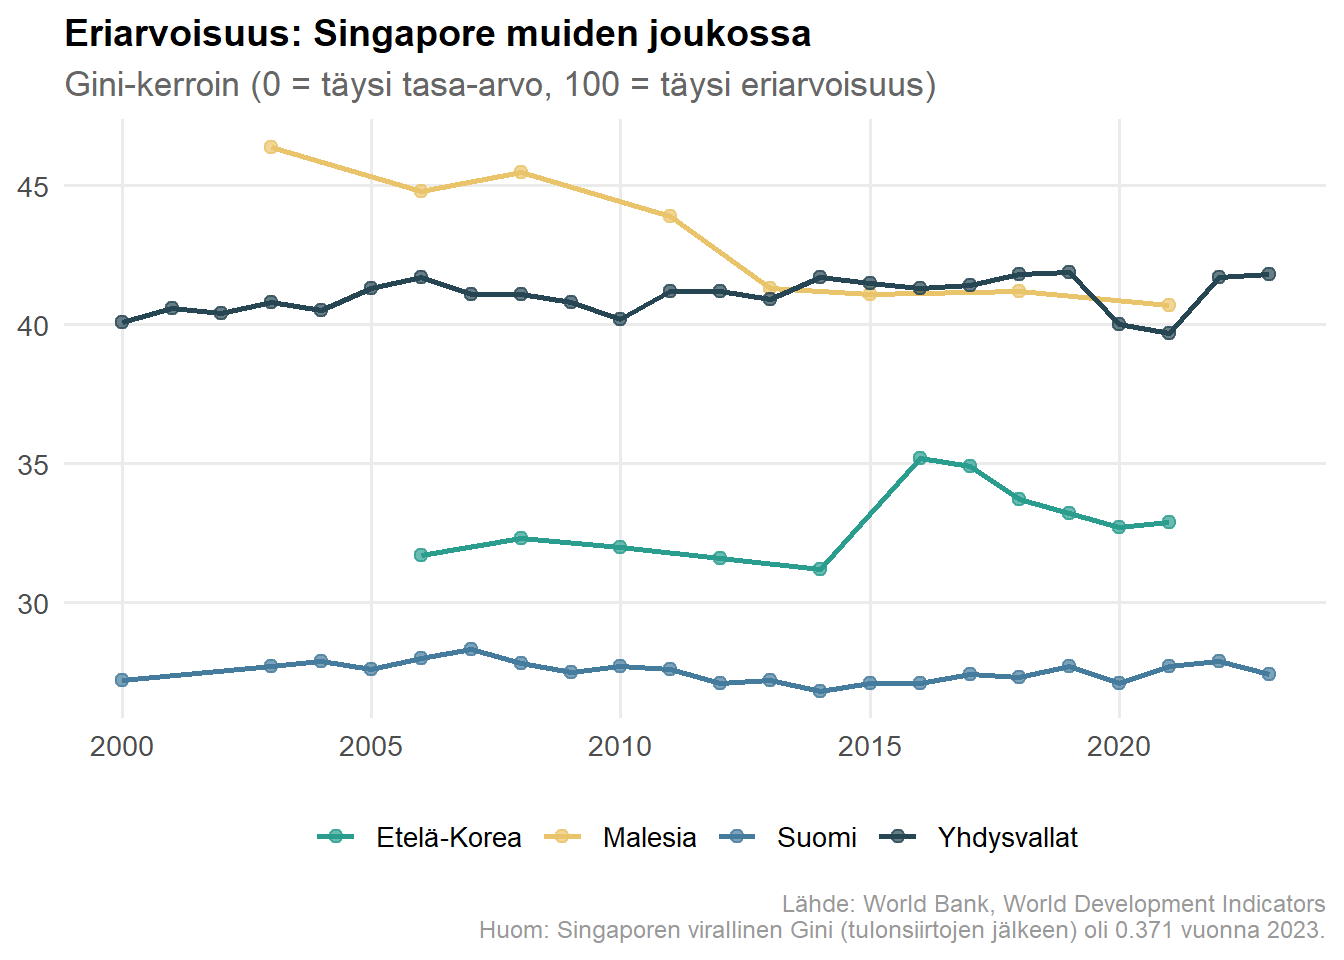
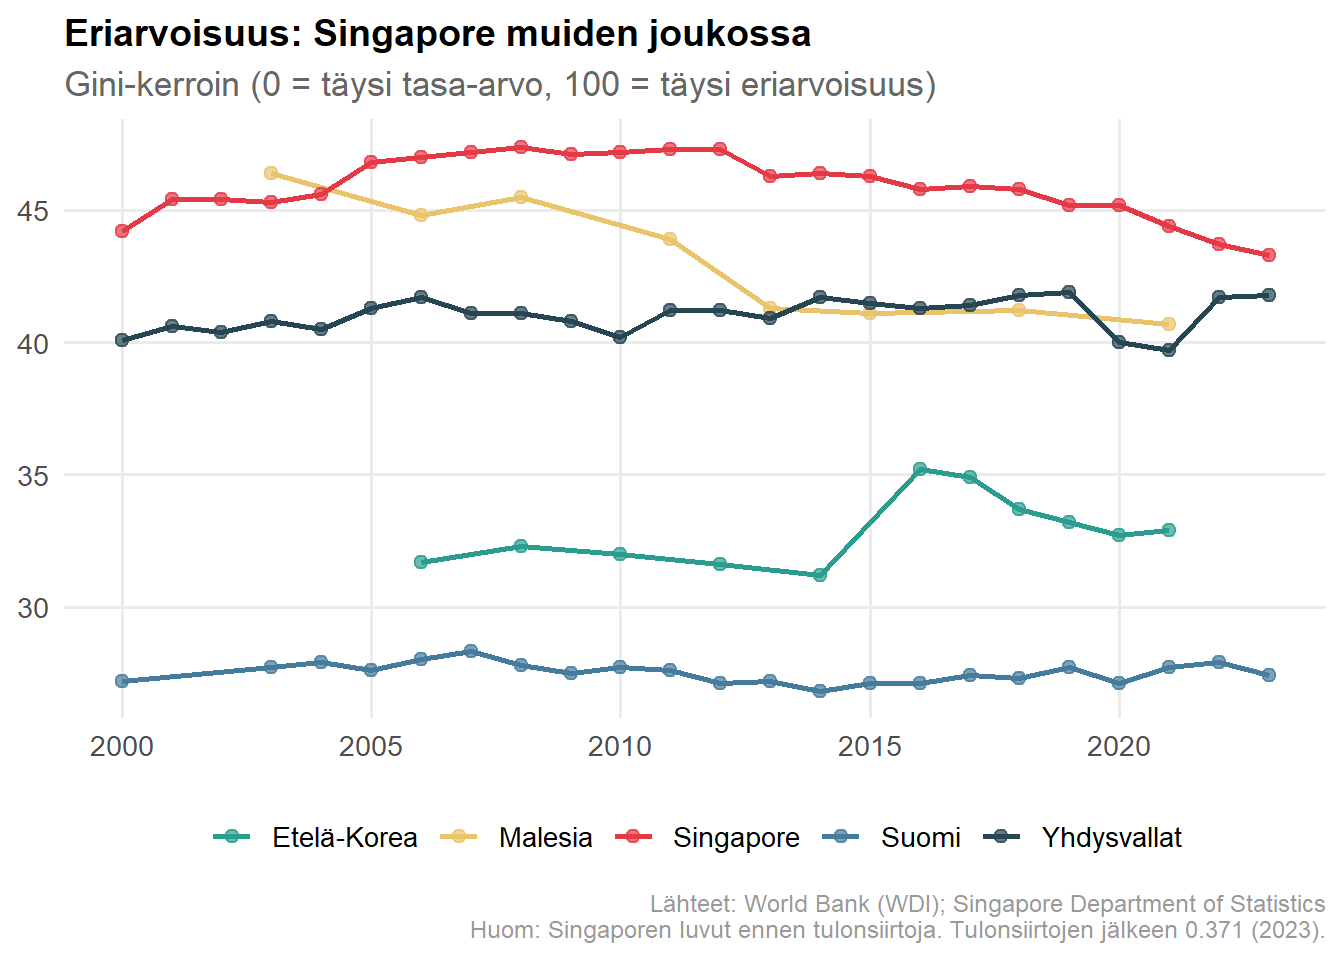
Built site for gh-pages

diff --git a/posts/singapore/index.html b/posts/singapore/index.html
@@ -169,7 +169,7 @@ pre > code.sourceCode > span > a:first-child::before { text-decoration: underlin
       <div>
       <div class="quarto-title-meta-heading">Julkaistu</div>
       <div class="quarto-title-meta-contents">
-        <p class="date">21. helmikuuta 2025</p>
+        <p class="date">21. helmikuuta 2026</p>
       </div>
     </div>
     
@@ -375,46 +375,55 @@ Kuva&nbsp;2: Bruttosäästämisaste (% BKT:stä) Singaporessa ja vertailumaissa.
 <h2 class="anchored" data-anchor-id="maahanmuutto-ja-kaksoistyömarkkinat">Maahanmuutto ja kaksoistyömarkkinat</h2>
 <p>Singapore käyttää aktiivista työperäistä maahanmuuttoa talouden joustavuuden välineenä. Järjestelmä on kaksijakoinen: korkean osaamisen virrat tuovat finanssi-, teknologia- ja tutkimusalan ammattilaisia, kun taas matalapalkkaiset vierastyöläiset tekevät rakennus-, siivous- ja hoivatyötä.</p>
 <p>Makrotaloudellisesti tämä pitää palkkainflaation kurissa, nostaa potentiaalista BKT:tä ja lisää talouden joustavuutta suhdannevaihteluissa. Mutta se myös luo kaksoistyömarkkinan, jossa oikeudet ja palkkatasot eroavat dramaattisesti kansalaisuuden perusteella.</p>
-<p>Katukuvassa tämä näkyy välittömästi. Bangladeshilaiset ja intialaiset rakennustyöläiset asuvat teollisuusalueiden asuntoloissa — tarkoitukseen rakennetuissa betonitorneissa, varastoista muunnetuissa majoitustiloissa tai työmaiden väliaikaisparakeissa — ja kulkevat työmaalle kuorma-autojen lavoilla. Muutaman kilometrin päässä CBD:n pilvenpiirtäjissä työskentelevät toisenlaiset “vierastyöläiset” — lontoolaiset pankkiirit ja sanfranciscolaiset ohjelmistokehittäjät — joiden Employment Pass avaa tien pysyvään oleskelulupaan ja lopulta kansalaisuuteen. Molemmat ovat siirtotyöläisiä. Heidän Singaporensa eivät ole sama maa. Eriarvoisuus ei ole järjestelmän virhe, vaan se on ominaisuus.</p>
+<p>Katukuvassa tämä näkyy välittömästi. Bangladeshilaiset ja intialaiset rakennustyöläiset asuvat teollisuusalueiden asuntoloissa — tarkoitukseen rakennetuissa betonitorneissa, varastoista muunnetuissa majoitustiloissa tai työmaiden väliaikaisparakeissa — ja kulkevat työmaalle kuorma-autojen lavoilla. Muutaman kilometrin päässä CBD:n pilvenpiirtäjissä työskentelevät toisenlaiset “vierastyöläiset” — lontoolaiset pankkiirit ja sanfranciscolaiset ohjelmistokehittäjät — joiden Employment Pass avaa tien pysyvään oleskelulupaan ja lopulta kansalaisuuteen. Molemmat ovat siirtotyöläisiä. Heidän Singaporensa eivät ole sama maa. Eriarvoisuus ei ole järjestelmän virhe, vaan sen ominaisuus.</p>
 </section>
 <section id="eriarvoisuus-kasvua-ensin-uudelleenjakoa-ehkä-myöhemmin" class="level2">
 <h2 class="anchored" data-anchor-id="eriarvoisuus-kasvua-ensin-uudelleenjakoa-ehkä-myöhemmin">Eriarvoisuus: kasvua ensin, uudelleenjakoa ehkä myöhemmin</h2>
 <div class="cell">
 <details class="code-fold">
 <summary>Näytä koodi</summary>
-<div class="code-copy-outer-scaffold"><div class="sourceCode cell-code" id="cb3"><pre class="sourceCode r code-with-copy"><code class="sourceCode r"><span id="cb3-1"><a href="#cb3-1" aria-hidden="true" tabindex="-1"></a>gini_data <span class="ot">&lt;-</span> <span class="fu">WDI</span>(</span>
-<span id="cb3-2"><a href="#cb3-2" aria-hidden="true" tabindex="-1"></a>  <span class="at">country =</span> <span class="fu">c</span>(<span class="st">"SG"</span>, <span class="st">"FI"</span>, <span class="st">"KR"</span>, <span class="st">"US"</span>, <span class="st">"MY"</span>),</span>
-<span id="cb3-3"><a href="#cb3-3" aria-hidden="true" tabindex="-1"></a>  <span class="at">indicator =</span> <span class="st">"SI.POV.GINI"</span>,</span>
-<span id="cb3-4"><a href="#cb3-4" aria-hidden="true" tabindex="-1"></a>  <span class="at">start =</span> <span class="dv">2000</span>,</span>
-<span id="cb3-5"><a href="#cb3-5" aria-hidden="true" tabindex="-1"></a>  <span class="at">end =</span> <span class="dv">2023</span></span>
-<span id="cb3-6"><a href="#cb3-6" aria-hidden="true" tabindex="-1"></a>) <span class="sc">|&gt;</span></span>
-<span id="cb3-7"><a href="#cb3-7" aria-hidden="true" tabindex="-1"></a>  <span class="fu">rename</span>(<span class="at">gini =</span> SI.POV.GINI) <span class="sc">|&gt;</span></span>
-<span id="cb3-8"><a href="#cb3-8" aria-hidden="true" tabindex="-1"></a>  <span class="fu">filter</span>(<span class="sc">!</span><span class="fu">is.na</span>(gini)) <span class="sc">|&gt;</span></span>
-<span id="cb3-9"><a href="#cb3-9" aria-hidden="true" tabindex="-1"></a>  <span class="fu">mutate</span>(<span class="at">country_fi =</span> <span class="fu">case_when</span>(</span>
-<span id="cb3-10"><a href="#cb3-10" aria-hidden="true" tabindex="-1"></a>    iso2c <span class="sc">==</span> <span class="st">"SG"</span> <span class="sc">~</span> <span class="st">"Singapore"</span>,</span>
-<span id="cb3-11"><a href="#cb3-11" aria-hidden="true" tabindex="-1"></a>    iso2c <span class="sc">==</span> <span class="st">"FI"</span> <span class="sc">~</span> <span class="st">"Suomi"</span>,</span>
-<span id="cb3-12"><a href="#cb3-12" aria-hidden="true" tabindex="-1"></a>    iso2c <span class="sc">==</span> <span class="st">"KR"</span> <span class="sc">~</span> <span class="st">"Etelä-Korea"</span>,</span>
-<span id="cb3-13"><a href="#cb3-13" aria-hidden="true" tabindex="-1"></a>    iso2c <span class="sc">==</span> <span class="st">"US"</span> <span class="sc">~</span> <span class="st">"Yhdysvallat"</span>,</span>
-<span id="cb3-14"><a href="#cb3-14" aria-hidden="true" tabindex="-1"></a>    iso2c <span class="sc">==</span> <span class="st">"MY"</span> <span class="sc">~</span> <span class="st">"Malesia"</span></span>
-<span id="cb3-15"><a href="#cb3-15" aria-hidden="true" tabindex="-1"></a>  ))</span>
-<span id="cb3-16"><a href="#cb3-16" aria-hidden="true" tabindex="-1"></a></span>
-<span id="cb3-17"><a href="#cb3-17" aria-hidden="true" tabindex="-1"></a><span class="fu">ggplot</span>(gini_data, <span class="fu">aes</span>(<span class="at">x =</span> year, <span class="at">y =</span> gini, <span class="at">color =</span> country_fi)) <span class="sc">+</span></span>
-<span id="cb3-18"><a href="#cb3-18" aria-hidden="true" tabindex="-1"></a>  <span class="fu">geom_line</span>(<span class="at">linewidth =</span> <span class="dv">1</span>) <span class="sc">+</span></span>
-<span id="cb3-19"><a href="#cb3-19" aria-hidden="true" tabindex="-1"></a>  <span class="fu">geom_point</span>(<span class="at">size =</span> <span class="dv">2</span>, <span class="at">alpha =</span> <span class="fl">0.7</span>) <span class="sc">+</span></span>
-<span id="cb3-20"><a href="#cb3-20" aria-hidden="true" tabindex="-1"></a>  <span class="fu">scale_color_manual</span>(<span class="at">values =</span> <span class="fu">c</span>(</span>
-<span id="cb3-21"><a href="#cb3-21" aria-hidden="true" tabindex="-1"></a>    <span class="st">"Singapore"</span> <span class="ot">=</span> <span class="st">"#e63946"</span>,</span>
-<span id="cb3-22"><a href="#cb3-22" aria-hidden="true" tabindex="-1"></a>    <span class="st">"Suomi"</span> <span class="ot">=</span> <span class="st">"#457b9d"</span>,</span>
-<span id="cb3-23"><a href="#cb3-23" aria-hidden="true" tabindex="-1"></a>    <span class="st">"Etelä-Korea"</span> <span class="ot">=</span> <span class="st">"#2a9d8f"</span>,</span>
-<span id="cb3-24"><a href="#cb3-24" aria-hidden="true" tabindex="-1"></a>    <span class="st">"Yhdysvallat"</span> <span class="ot">=</span> <span class="st">"#264653"</span>,</span>
-<span id="cb3-25"><a href="#cb3-25" aria-hidden="true" tabindex="-1"></a>    <span class="st">"Malesia"</span> <span class="ot">=</span> <span class="st">"#e9c46a"</span></span>
-<span id="cb3-26"><a href="#cb3-26" aria-hidden="true" tabindex="-1"></a>  )) <span class="sc">+</span></span>
-<span id="cb3-27"><a href="#cb3-27" aria-hidden="true" tabindex="-1"></a>  <span class="fu">labs</span>(</span>
-<span id="cb3-28"><a href="#cb3-28" aria-hidden="true" tabindex="-1"></a>    <span class="at">title =</span> <span class="st">"Eriarvoisuus: Singapore muiden joukossa"</span>,</span>
-<span id="cb3-29"><a href="#cb3-29" aria-hidden="true" tabindex="-1"></a>    <span class="at">subtitle =</span> <span class="st">"Gini-kerroin (0 = täysi tasa-arvo, 100 = täysi eriarvoisuus)"</span>,</span>
-<span id="cb3-30"><a href="#cb3-30" aria-hidden="true" tabindex="-1"></a>    <span class="at">x =</span> <span class="cn">NULL</span>, <span class="at">y =</span> <span class="cn">NULL</span>, <span class="at">color =</span> <span class="cn">NULL</span>,</span>
-<span id="cb3-31"><a href="#cb3-31" aria-hidden="true" tabindex="-1"></a>    <span class="at">caption =</span> <span class="st">"Lähde: World Bank, World Development Indicators</span><span class="sc">\n</span><span class="st">Huom: Singaporen virallinen Gini (tulonsiirtojen jälkeen) oli 0.371 vuonna 2023."</span></span>
-<span id="cb3-32"><a href="#cb3-32" aria-hidden="true" tabindex="-1"></a>  ) <span class="sc">+</span></span>
-<span id="cb3-33"><a href="#cb3-33" aria-hidden="true" tabindex="-1"></a>  <span class="fu">theme</span>(<span class="at">legend.position =</span> <span class="st">"bottom"</span>)</span></code></pre></div><button title="Kopioi leikepöydälle" class="code-copy-button"><i class="bi"></i></button></div>
+<div class="code-copy-outer-scaffold"><div class="sourceCode cell-code" id="cb3"><pre class="sourceCode r code-with-copy"><code class="sourceCode r"><span id="cb3-1"><a href="#cb3-1" aria-hidden="true" tabindex="-1"></a><span class="co"># Singaporen viralliset Gini-luvut (ennen tulonsiirtoja, työssäkäyvät kotitaloudet)</span></span>
+<span id="cb3-2"><a href="#cb3-2" aria-hidden="true" tabindex="-1"></a>sg_gini <span class="ot">&lt;-</span> <span class="fu">tibble</span>(</span>
+<span id="cb3-3"><a href="#cb3-3" aria-hidden="true" tabindex="-1"></a>  <span class="at">year =</span> <span class="dv">2000</span><span class="sc">:</span><span class="dv">2023</span>,</span>
+<span id="cb3-4"><a href="#cb3-4" aria-hidden="true" tabindex="-1"></a>  <span class="at">gini =</span> <span class="fu">c</span>(<span class="fl">44.2</span>, <span class="fl">45.4</span>, <span class="fl">45.4</span>, <span class="fl">45.3</span>, <span class="fl">45.6</span>, <span class="fl">46.8</span>, <span class="fl">47.0</span>, <span class="fl">47.2</span>, <span class="fl">47.4</span>, <span class="fl">47.1</span>,</span>
+<span id="cb3-5"><a href="#cb3-5" aria-hidden="true" tabindex="-1"></a>           <span class="fl">47.2</span>, <span class="fl">47.3</span>, <span class="fl">47.3</span>, <span class="fl">46.3</span>, <span class="fl">46.4</span>, <span class="fl">46.3</span>, <span class="fl">45.8</span>, <span class="fl">45.9</span>, <span class="fl">45.8</span>, <span class="fl">45.2</span>,</span>
+<span id="cb3-6"><a href="#cb3-6" aria-hidden="true" tabindex="-1"></a>           <span class="fl">45.2</span>, <span class="fl">44.4</span>, <span class="fl">43.7</span>, <span class="fl">43.3</span>),</span>
+<span id="cb3-7"><a href="#cb3-7" aria-hidden="true" tabindex="-1"></a>  <span class="at">country_fi =</span> <span class="st">"Singapore"</span></span>
+<span id="cb3-8"><a href="#cb3-8" aria-hidden="true" tabindex="-1"></a>)</span>
+<span id="cb3-9"><a href="#cb3-9" aria-hidden="true" tabindex="-1"></a></span>
+<span id="cb3-10"><a href="#cb3-10" aria-hidden="true" tabindex="-1"></a>gini_data <span class="ot">&lt;-</span> <span class="fu">WDI</span>(</span>
+<span id="cb3-11"><a href="#cb3-11" aria-hidden="true" tabindex="-1"></a>  <span class="at">country =</span> <span class="fu">c</span>(<span class="st">"FI"</span>, <span class="st">"KR"</span>, <span class="st">"US"</span>, <span class="st">"MY"</span>),</span>
+<span id="cb3-12"><a href="#cb3-12" aria-hidden="true" tabindex="-1"></a>  <span class="at">indicator =</span> <span class="st">"SI.POV.GINI"</span>,</span>
+<span id="cb3-13"><a href="#cb3-13" aria-hidden="true" tabindex="-1"></a>  <span class="at">start =</span> <span class="dv">2000</span>, <span class="at">end =</span> <span class="dv">2023</span></span>
+<span id="cb3-14"><a href="#cb3-14" aria-hidden="true" tabindex="-1"></a>) <span class="sc">|&gt;</span></span>
+<span id="cb3-15"><a href="#cb3-15" aria-hidden="true" tabindex="-1"></a>  <span class="fu">rename</span>(<span class="at">gini =</span> SI.POV.GINI) <span class="sc">|&gt;</span></span>
+<span id="cb3-16"><a href="#cb3-16" aria-hidden="true" tabindex="-1"></a>  <span class="fu">filter</span>(<span class="sc">!</span><span class="fu">is.na</span>(gini)) <span class="sc">|&gt;</span></span>
+<span id="cb3-17"><a href="#cb3-17" aria-hidden="true" tabindex="-1"></a>  <span class="fu">mutate</span>(<span class="at">country_fi =</span> <span class="fu">case_when</span>(</span>
+<span id="cb3-18"><a href="#cb3-18" aria-hidden="true" tabindex="-1"></a>    iso2c <span class="sc">==</span> <span class="st">"FI"</span> <span class="sc">~</span> <span class="st">"Suomi"</span>,</span>
+<span id="cb3-19"><a href="#cb3-19" aria-hidden="true" tabindex="-1"></a>    iso2c <span class="sc">==</span> <span class="st">"KR"</span> <span class="sc">~</span> <span class="st">"Etelä-Korea"</span>,</span>
+<span id="cb3-20"><a href="#cb3-20" aria-hidden="true" tabindex="-1"></a>    iso2c <span class="sc">==</span> <span class="st">"US"</span> <span class="sc">~</span> <span class="st">"Yhdysvallat"</span>,</span>
+<span id="cb3-21"><a href="#cb3-21" aria-hidden="true" tabindex="-1"></a>    iso2c <span class="sc">==</span> <span class="st">"MY"</span> <span class="sc">~</span> <span class="st">"Malesia"</span></span>
+<span id="cb3-22"><a href="#cb3-22" aria-hidden="true" tabindex="-1"></a>  )) <span class="sc">|&gt;</span></span>
+<span id="cb3-23"><a href="#cb3-23" aria-hidden="true" tabindex="-1"></a>  <span class="fu">select</span>(year, gini, country_fi) <span class="sc">|&gt;</span></span>
+<span id="cb3-24"><a href="#cb3-24" aria-hidden="true" tabindex="-1"></a>  <span class="fu">bind_rows</span>(sg_gini)</span>
+<span id="cb3-25"><a href="#cb3-25" aria-hidden="true" tabindex="-1"></a></span>
+<span id="cb3-26"><a href="#cb3-26" aria-hidden="true" tabindex="-1"></a><span class="fu">ggplot</span>(gini_data, <span class="fu">aes</span>(<span class="at">x =</span> year, <span class="at">y =</span> gini, <span class="at">color =</span> country_fi)) <span class="sc">+</span></span>
+<span id="cb3-27"><a href="#cb3-27" aria-hidden="true" tabindex="-1"></a>  <span class="fu">geom_line</span>(<span class="at">linewidth =</span> <span class="dv">1</span>) <span class="sc">+</span></span>
+<span id="cb3-28"><a href="#cb3-28" aria-hidden="true" tabindex="-1"></a>  <span class="fu">geom_point</span>(<span class="at">size =</span> <span class="dv">2</span>, <span class="at">alpha =</span> <span class="fl">0.7</span>) <span class="sc">+</span></span>
+<span id="cb3-29"><a href="#cb3-29" aria-hidden="true" tabindex="-1"></a>  <span class="fu">scale_color_manual</span>(<span class="at">values =</span> <span class="fu">c</span>(</span>
+<span id="cb3-30"><a href="#cb3-30" aria-hidden="true" tabindex="-1"></a>    <span class="st">"Singapore"</span> <span class="ot">=</span> <span class="st">"#e63946"</span>,</span>
+<span id="cb3-31"><a href="#cb3-31" aria-hidden="true" tabindex="-1"></a>    <span class="st">"Suomi"</span> <span class="ot">=</span> <span class="st">"#457b9d"</span>,</span>
+<span id="cb3-32"><a href="#cb3-32" aria-hidden="true" tabindex="-1"></a>    <span class="st">"Etelä-Korea"</span> <span class="ot">=</span> <span class="st">"#2a9d8f"</span>,</span>
+<span id="cb3-33"><a href="#cb3-33" aria-hidden="true" tabindex="-1"></a>    <span class="st">"Yhdysvallat"</span> <span class="ot">=</span> <span class="st">"#264653"</span>,</span>
+<span id="cb3-34"><a href="#cb3-34" aria-hidden="true" tabindex="-1"></a>    <span class="st">"Malesia"</span> <span class="ot">=</span> <span class="st">"#e9c46a"</span></span>
+<span id="cb3-35"><a href="#cb3-35" aria-hidden="true" tabindex="-1"></a>  )) <span class="sc">+</span></span>
+<span id="cb3-36"><a href="#cb3-36" aria-hidden="true" tabindex="-1"></a>  <span class="fu">labs</span>(</span>
+<span id="cb3-37"><a href="#cb3-37" aria-hidden="true" tabindex="-1"></a>    <span class="at">title =</span> <span class="st">"Eriarvoisuus: Singapore muiden joukossa"</span>,</span>
+<span id="cb3-38"><a href="#cb3-38" aria-hidden="true" tabindex="-1"></a>    <span class="at">subtitle =</span> <span class="st">"Gini-kerroin (0 = täysi tasa-arvo, 100 = täysi eriarvoisuus)"</span>,</span>
+<span id="cb3-39"><a href="#cb3-39" aria-hidden="true" tabindex="-1"></a>    <span class="at">x =</span> <span class="cn">NULL</span>, <span class="at">y =</span> <span class="cn">NULL</span>, <span class="at">color =</span> <span class="cn">NULL</span>,</span>
+<span id="cb3-40"><a href="#cb3-40" aria-hidden="true" tabindex="-1"></a>    <span class="at">caption =</span> <span class="st">"Lähteet: World Bank (WDI); Singapore Department of Statistics</span><span class="sc">\n</span><span class="st">Huom: Singaporen luvut ennen tulonsiirtoja. Tulonsiirtojen jälkeen 0.371 (2023)."</span></span>
+<span id="cb3-41"><a href="#cb3-41" aria-hidden="true" tabindex="-1"></a>  ) <span class="sc">+</span></span>
+<span id="cb3-42"><a href="#cb3-42" aria-hidden="true" tabindex="-1"></a>  <span class="fu">theme</span>(<span class="at">legend.position =</span> <span class="st">"bottom"</span>)</span></code></pre></div><button title="Kopioi leikepöydälle" class="code-copy-button"><i class="bi"></i></button></div>
 </details>
 <div class="cell-output-display">
 <div id="fig-gini" class="quarto-float quarto-figure quarto-figure-center anchored">
@@ -423,7 +432,7 @@ Kuva&nbsp;2: Bruttosäästämisaste (% BKT:stä) Singaporessa ja vertailumaissa.
 <img src="index_files/figure-html/fig-gini-1.png" class="img-fluid figure-img" width="672">
 </div>
 <figcaption class="quarto-float-caption-bottom quarto-float-caption quarto-float-fig" id="fig-gini-caption-0ceaefa1-69ba-4598-a22c-09a6ac19f8ca">
-Kuva&nbsp;3: Gini-kerroin Singaporessa ja vertailumaissa. Lähde: Maailmanpankki (saatavuus vaihtelee vuosittain).
+Kuva&nbsp;3: Gini-kerroin Singaporessa ja vertailumaissa. Lähteet: Maailmanpankki (WDI), Singapore Department of Statistics.
 </figcaption>
 </figure>
 </div>
